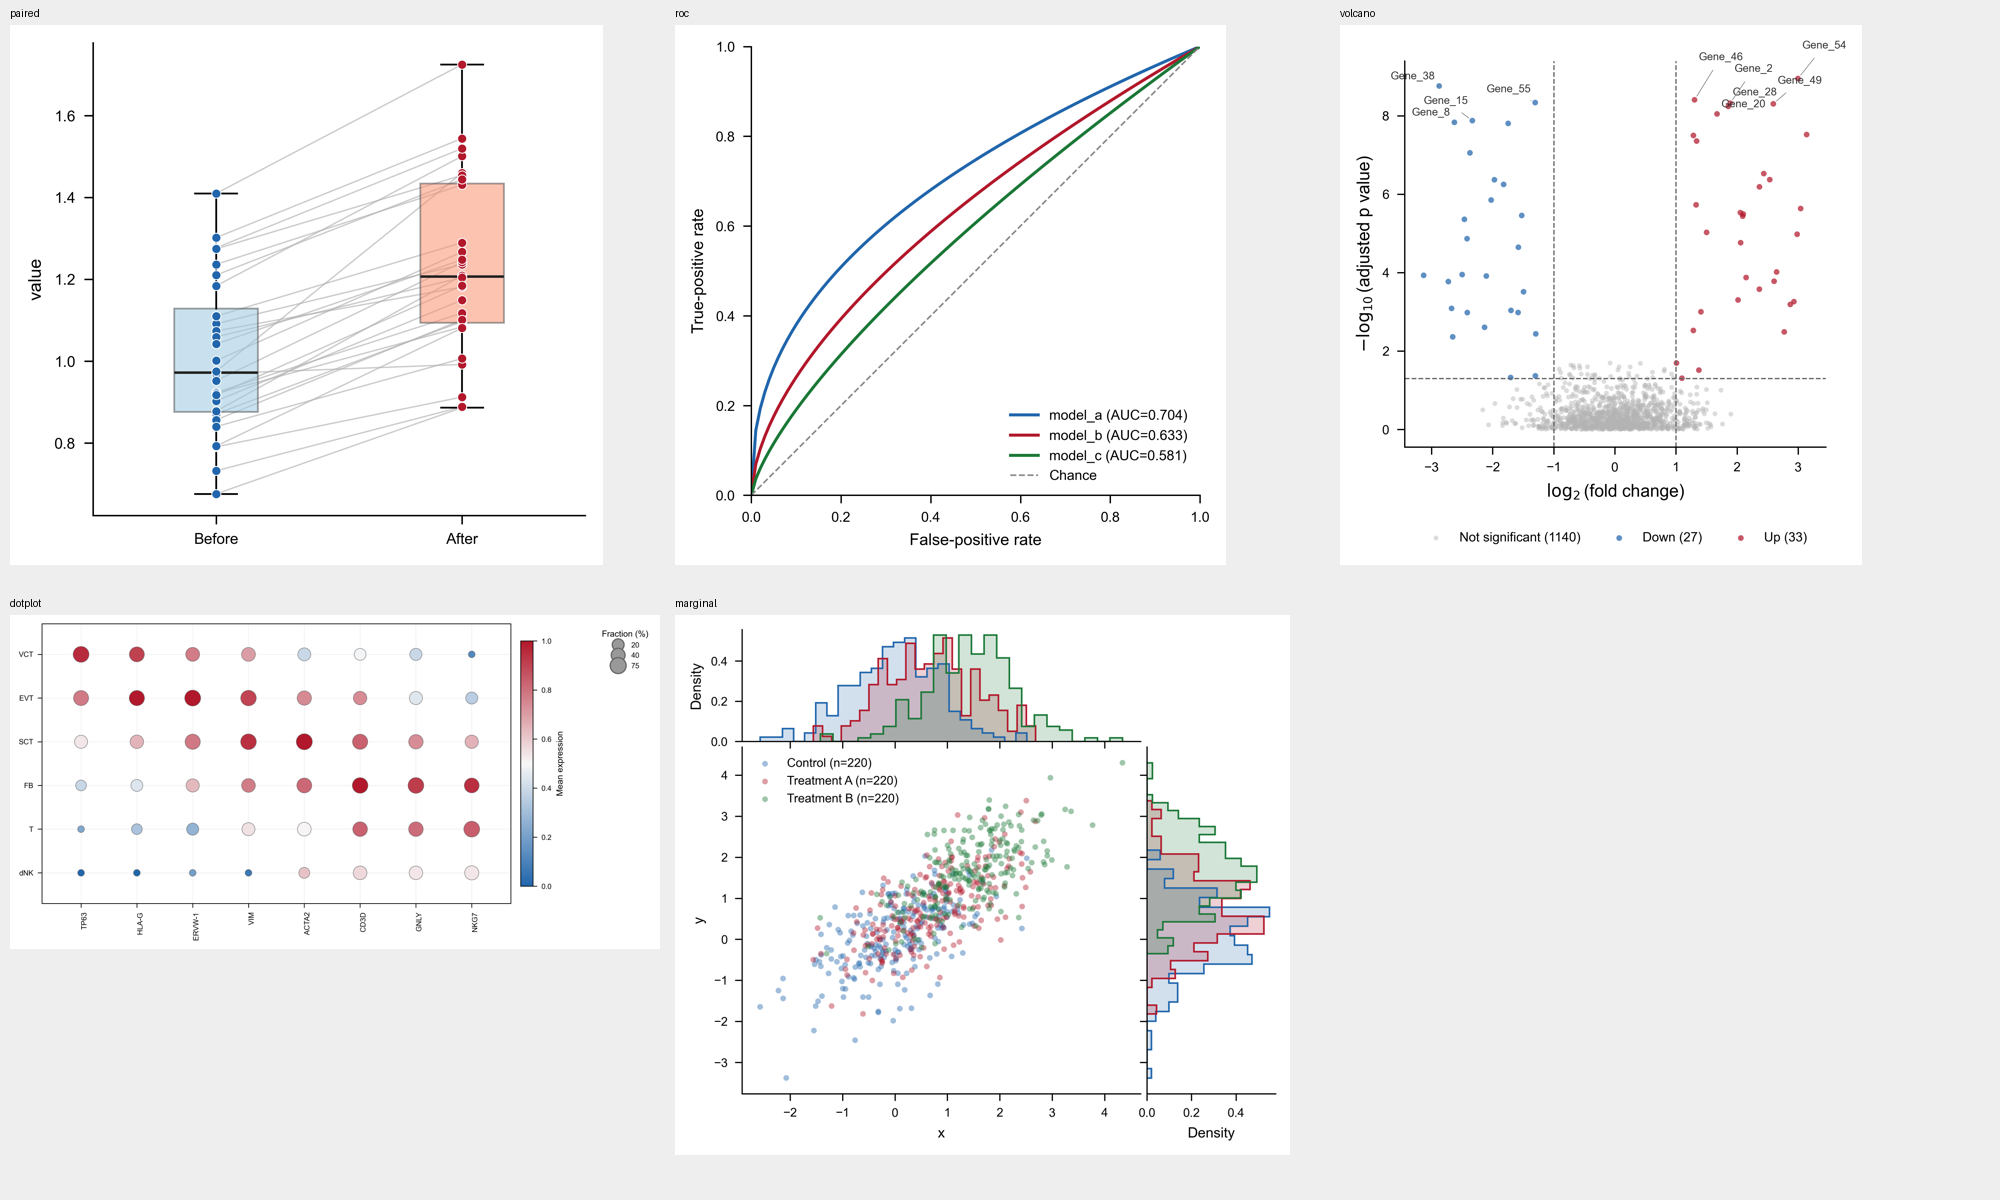
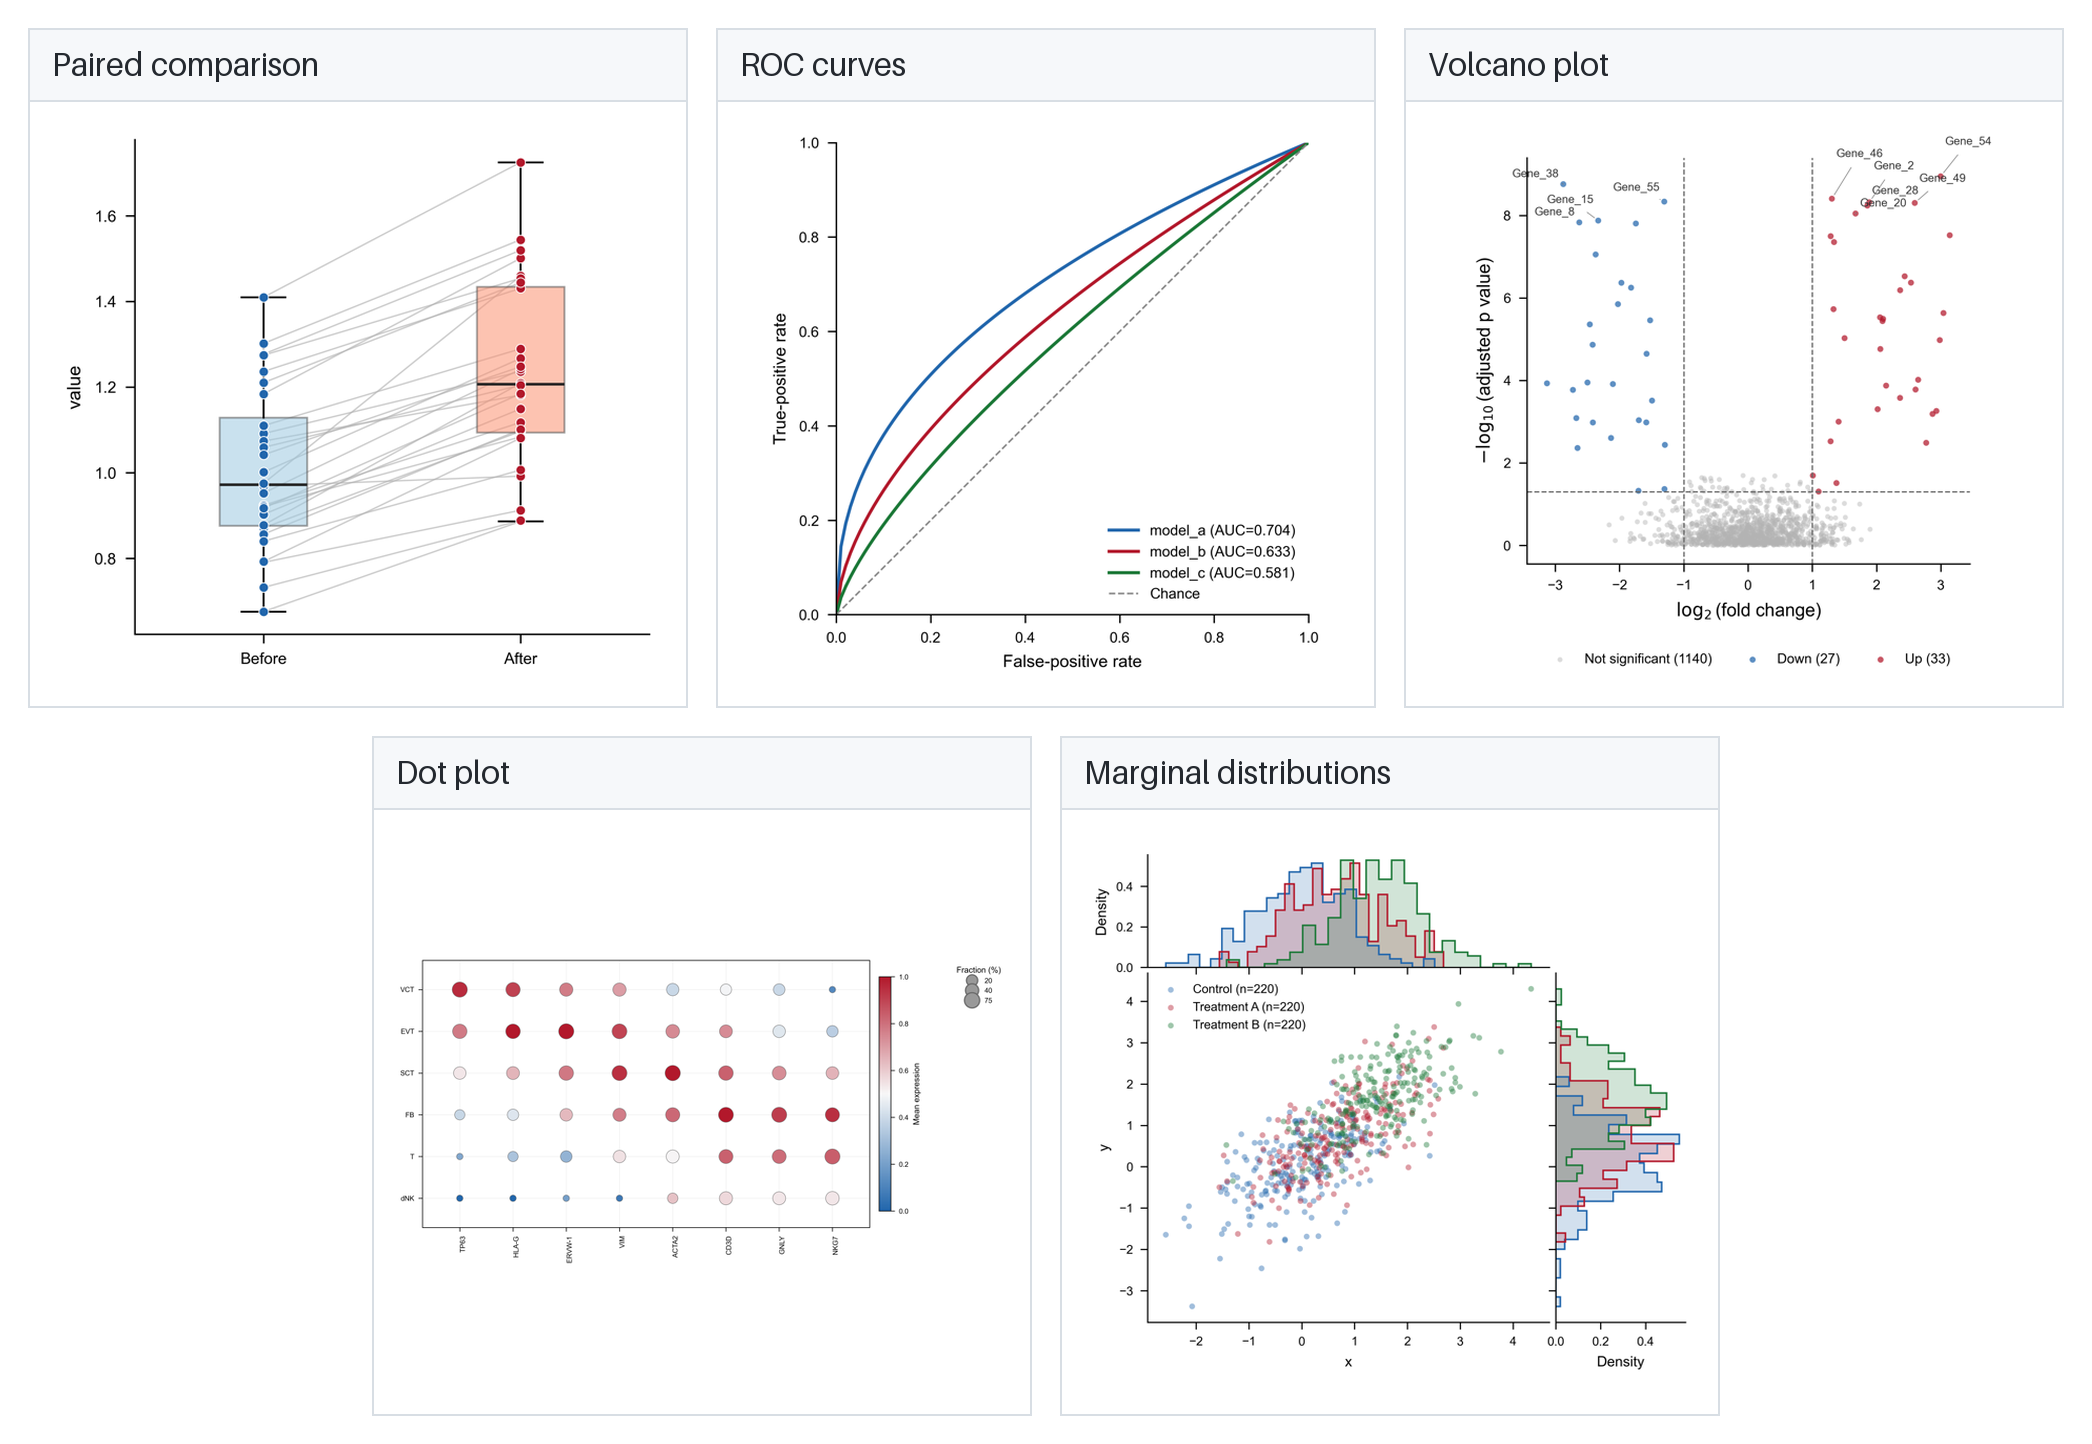
style(figures): align Python gallery previews
Use five equally sized cards with consistent headings and spacing, center the second row, and preserve the full source previews. Include a portable Pillow builder and refresh the gallery checksum.

diff --git a/thesis-framework-workflow/scripts/build_python_gallery.py b/thesis-framework-workflow/scripts/build_python_gallery.py
@@ -1,0 +1,84 @@
+"""Arrange existing demo previews in an evenly spaced README gallery.
+
+Requires Pillow >= 10.1. Run from any directory with Python. Source plots
+retain their aspect ratios and all labels; only the surrounding layout changes.
+"""
+
+import hashlib
+import json
+from pathlib import Path
+
+from PIL import Image, ImageDraw, ImageFont, ImageOps
+
+ASSETS = Path(__file__).resolve().parents[1] / "assets" / "python-figures"
+PANELS = (
+    ("paired", "Paired comparison"),
+    ("roc", "ROC curves"),
+    ("volcano", "Volcano plot"),
+    ("dotplot", "Dot plot"),
+    ("marginal", "Marginal distributions"),
+)
+CARD_WIDTH, CARD_HEIGHT = 660, 680
+MARGIN, GAP, HEADER = 28, 28, 72
+
+
+def make_card(name, title):
+    """Fit a full source image inside a fixed-size card without cropping."""
+    card = Image.new("RGB", (CARD_WIDTH, CARD_HEIGHT), "white")
+    draw = ImageDraw.Draw(card)
+    draw.rectangle((0, 0, CARD_WIDTH - 1, HEADER), fill="#f6f8fa")
+    draw.line((0, HEADER, CARD_WIDTH, HEADER), fill="#d8dee4", width=2)
+    draw.text(
+        (24, HEADER // 2),
+        title,
+        font=ImageFont.load_default(size=32),
+        fill="#24292f",
+        anchor="lm",
+    )
+    with Image.open(ASSETS / f"{name}.png") as source:
+        preview = ImageOps.contain(
+            source.convert("RGB"),
+            (CARD_WIDTH - 40, CARD_HEIGHT - HEADER - 40),
+            Image.Resampling.LANCZOS,
+        )
+    x = (CARD_WIDTH - preview.width) // 2
+    y = HEADER + (CARD_HEIGHT - HEADER - preview.height) // 2
+    card.paste(preview, (x, y))
+    draw.rectangle((0, 0, CARD_WIDTH - 1, CARD_HEIGHT - 1), outline="#d8dee4", width=2)
+    return card
+
+
+def main():
+    width = 2 * MARGIN + 3 * CARD_WIDTH + 2 * GAP
+    height = 2 * MARGIN + 2 * CARD_HEIGHT + GAP
+    gallery = Image.new("RGB", (width, height), "white")
+    positions = (
+        (MARGIN, MARGIN),
+        (MARGIN + CARD_WIDTH + GAP, MARGIN),
+        (MARGIN + 2 * (CARD_WIDTH + GAP), MARGIN),
+        (MARGIN + (CARD_WIDTH + GAP) // 2, MARGIN + CARD_HEIGHT + GAP),
+        (MARGIN + 3 * (CARD_WIDTH + GAP) // 2, MARGIN + CARD_HEIGHT + GAP),
+    )
+    for (name, title), position in zip(PANELS, positions, strict=True):
+        gallery.paste(make_card(name, title), position)
+    output = ASSETS / "templates.png"
+    gallery.save(output, optimize=True)
+
+    path = ASSETS / "provenance.json"
+    record = json.loads(path.read_text(encoding="utf-8"))
+    record["files"][output.name] = hashlib.sha256(output.read_bytes()).hexdigest()
+    record["gallery_layout"] = {
+        "builder": "../../scripts/build_python_gallery.py",
+        "arrangement": "Three equal cards above two centered equal cards",
+        "card_size_px": [CARD_WIDTH, CARD_HEIGHT],
+        "gap_px": GAP,
+        "source_images": "Existing exported previews, uncropped and aspect-preserved",
+    }
+    path.write_text(
+        json.dumps(record, ensure_ascii=False, indent=2) + "\n", encoding="utf-8"
+    )
+    print(f"Built {output.name}: {width} x {height}, {len(PANELS)} equal cards")
+
+
+if __name__ == "__main__":
+    main()
